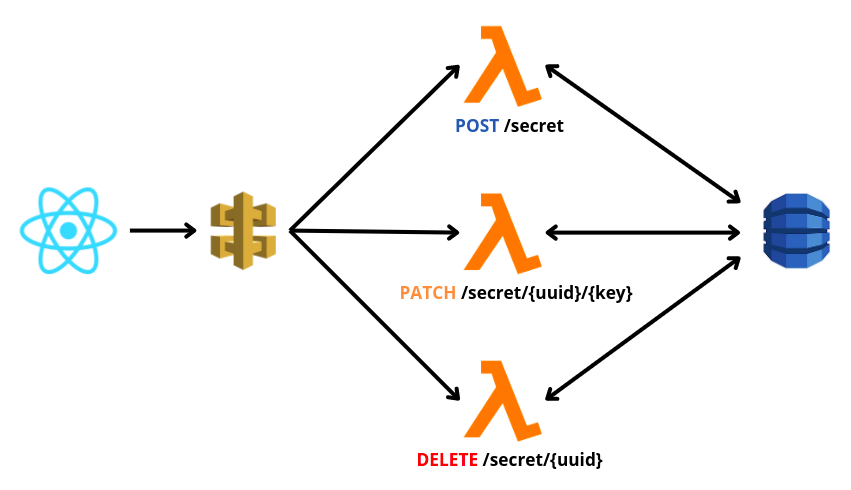
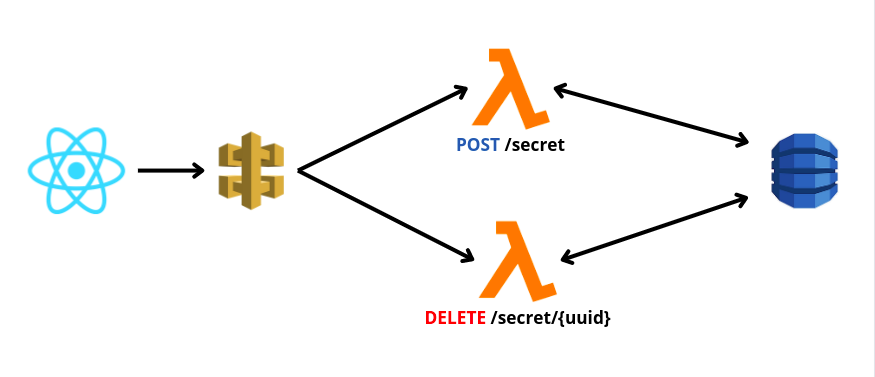
only two endpoints | destroy when see

diff --git a/src/handlers/getSecret.js b/src/handlers/getSecret.js
@@ -1,11 +1,10 @@
-import aes256 from "aes256";
 import middyfy from "../lib/middyfy";
 import createHttpError from "http-errors";
 import { Dynamo } from "../lib/dynamo";
 import { JsonResponse } from "../lib/JsonResponse";
 
 const getSecret = async (event) => {
-  const { uuid, encryptionKey } = event.pathParameters;
+  const { uuid } = event.pathParameters;
   const dynamo = new Dynamo();
   const secret = await dynamo.get(uuid);
 
@@ -13,32 +12,9 @@ const getSecret = async (event) => {
     throw new createHttpError.NotFound("Segredo não existe");
   }
 
-  if (secret.views > 0) {
-    await dynamo.destroy(secret.uuid);
-    throw new createHttpError.NotFound("Segredo não existe");
-  }
+  await dynamo.destroy(secret.uuid);
 
-  if (!secret.hasOwnProperty('password')) {
-    const data = aes256.decrypt(encryptionKey, secret.content);
-    await dynamo.update(uuid);
-
-    return JsonResponse._200(data);
-  }
-
-  if (!event.body || !event.body.hasOwnProperty('password')) {
-    throw new createHttpError.Unauthorized("Você precisa informar a senha para acessar o segredo.");
-  }
-
-  const password = event.body.password;
-
-  if (password !== aes256.decrypt(encryptionKey, secret.password)) {
-    throw new createHttpError.Unauthorized("Senha incorreta");
-  }
-
-  const data = aes256.decrypt(encryptionKey, secret.content);
-  await dynamo.update(uuid);
-
-  return JsonResponse._200(data);
+  return JsonResponse._200(secret);
 }
 
 export const handler = middyfy(getSecret);

diff --git a/src/model/Secret.js b/src/model/Secret.js
@@ -3,13 +3,11 @@ import shortUUID from "short-uuid";
 export class Secret {
   uuid;
   content;
-  views;
   expiration;
 
   constructor(content) {
     this.uuid = shortUUID.generate();
     this.content = content;
-    this.views = 0;
     this.expiration = new Date().setDate(new Date().getDate() + 7);
   }
 }

diff --git a/README.md b/README.md
@@ -1,6 +1,6 @@
 # GetMySecret API
 
-> API Serverless para a criação de informações para serem acessadas em um link apenas uma vez!
+> API Serverless da aplicação feita para a criação de informações que serão acessadas atráves de um link apenas uma vez!
 
 ## Como colocar para funcionar?
 
@@ -64,30 +64,20 @@ O client / frontend faz requisições para um endpoint gerenciado pelo API Gatew
   ```
   Caso siga o exemplo acima, atente-se ao fato de que o hash não será o mesmo.
 
-- **Para obter o segredo, acesse o endpoint `patch: /secret/{uuid}/{encryptionKey}`**
+- **Para obter o segredo, acesse o endpoint `delete: /secret/{uuid}`**
 
-  Caso tenha criado um segredo com senha, informe a mesma como parâmetro no corpo da requisição:
-  ```
-    {
-      "password": "MinhaSenhaSecreta123"
-    }
-  ```
   O resultado será seu segredo:
   ```
-    "Meu segredo secreto"
+    {
+      "content": "ocXarJ42aayOjAXa836rDIJyyY6Jry20kKvH",
+	    "uuid": "fzE3ZqP83vFomnRNuX5mXK",
+    	"expiration": 1659477428588
+    }
   ```
 
-  Atente-se ao fato de que enviar a requisição sem corpo retornará erro apenas no caso de uma segredo cadastrado com senha.
+  O frontend irá descriptografar o segredo e validará a senha. Isso porque ambos foram desenvolvidos com javascript.
 
 - **Ao tentar a requisição acima novamente, verá que o segredo foi deletado.**
-
-- **Deletar um segredo através do endpoint `delete: /secret/{uuid}`**
-
-  Caso o segredo possua uma senha, o frontend já terá validado, visto que o referido endpoint só é acessado no momento em que o usuário receptor já validou a senha e já a visualizou.
-
-- **Verificar se possui senha através do endpoint `get: /secret/{uuid}`**
-
-  O retorno pode ser um 404 ou uma mensagem de sucesso. Rota usada para o frontend validar a existência de uma senha para o segredo.
 
 ## Background Job
 
